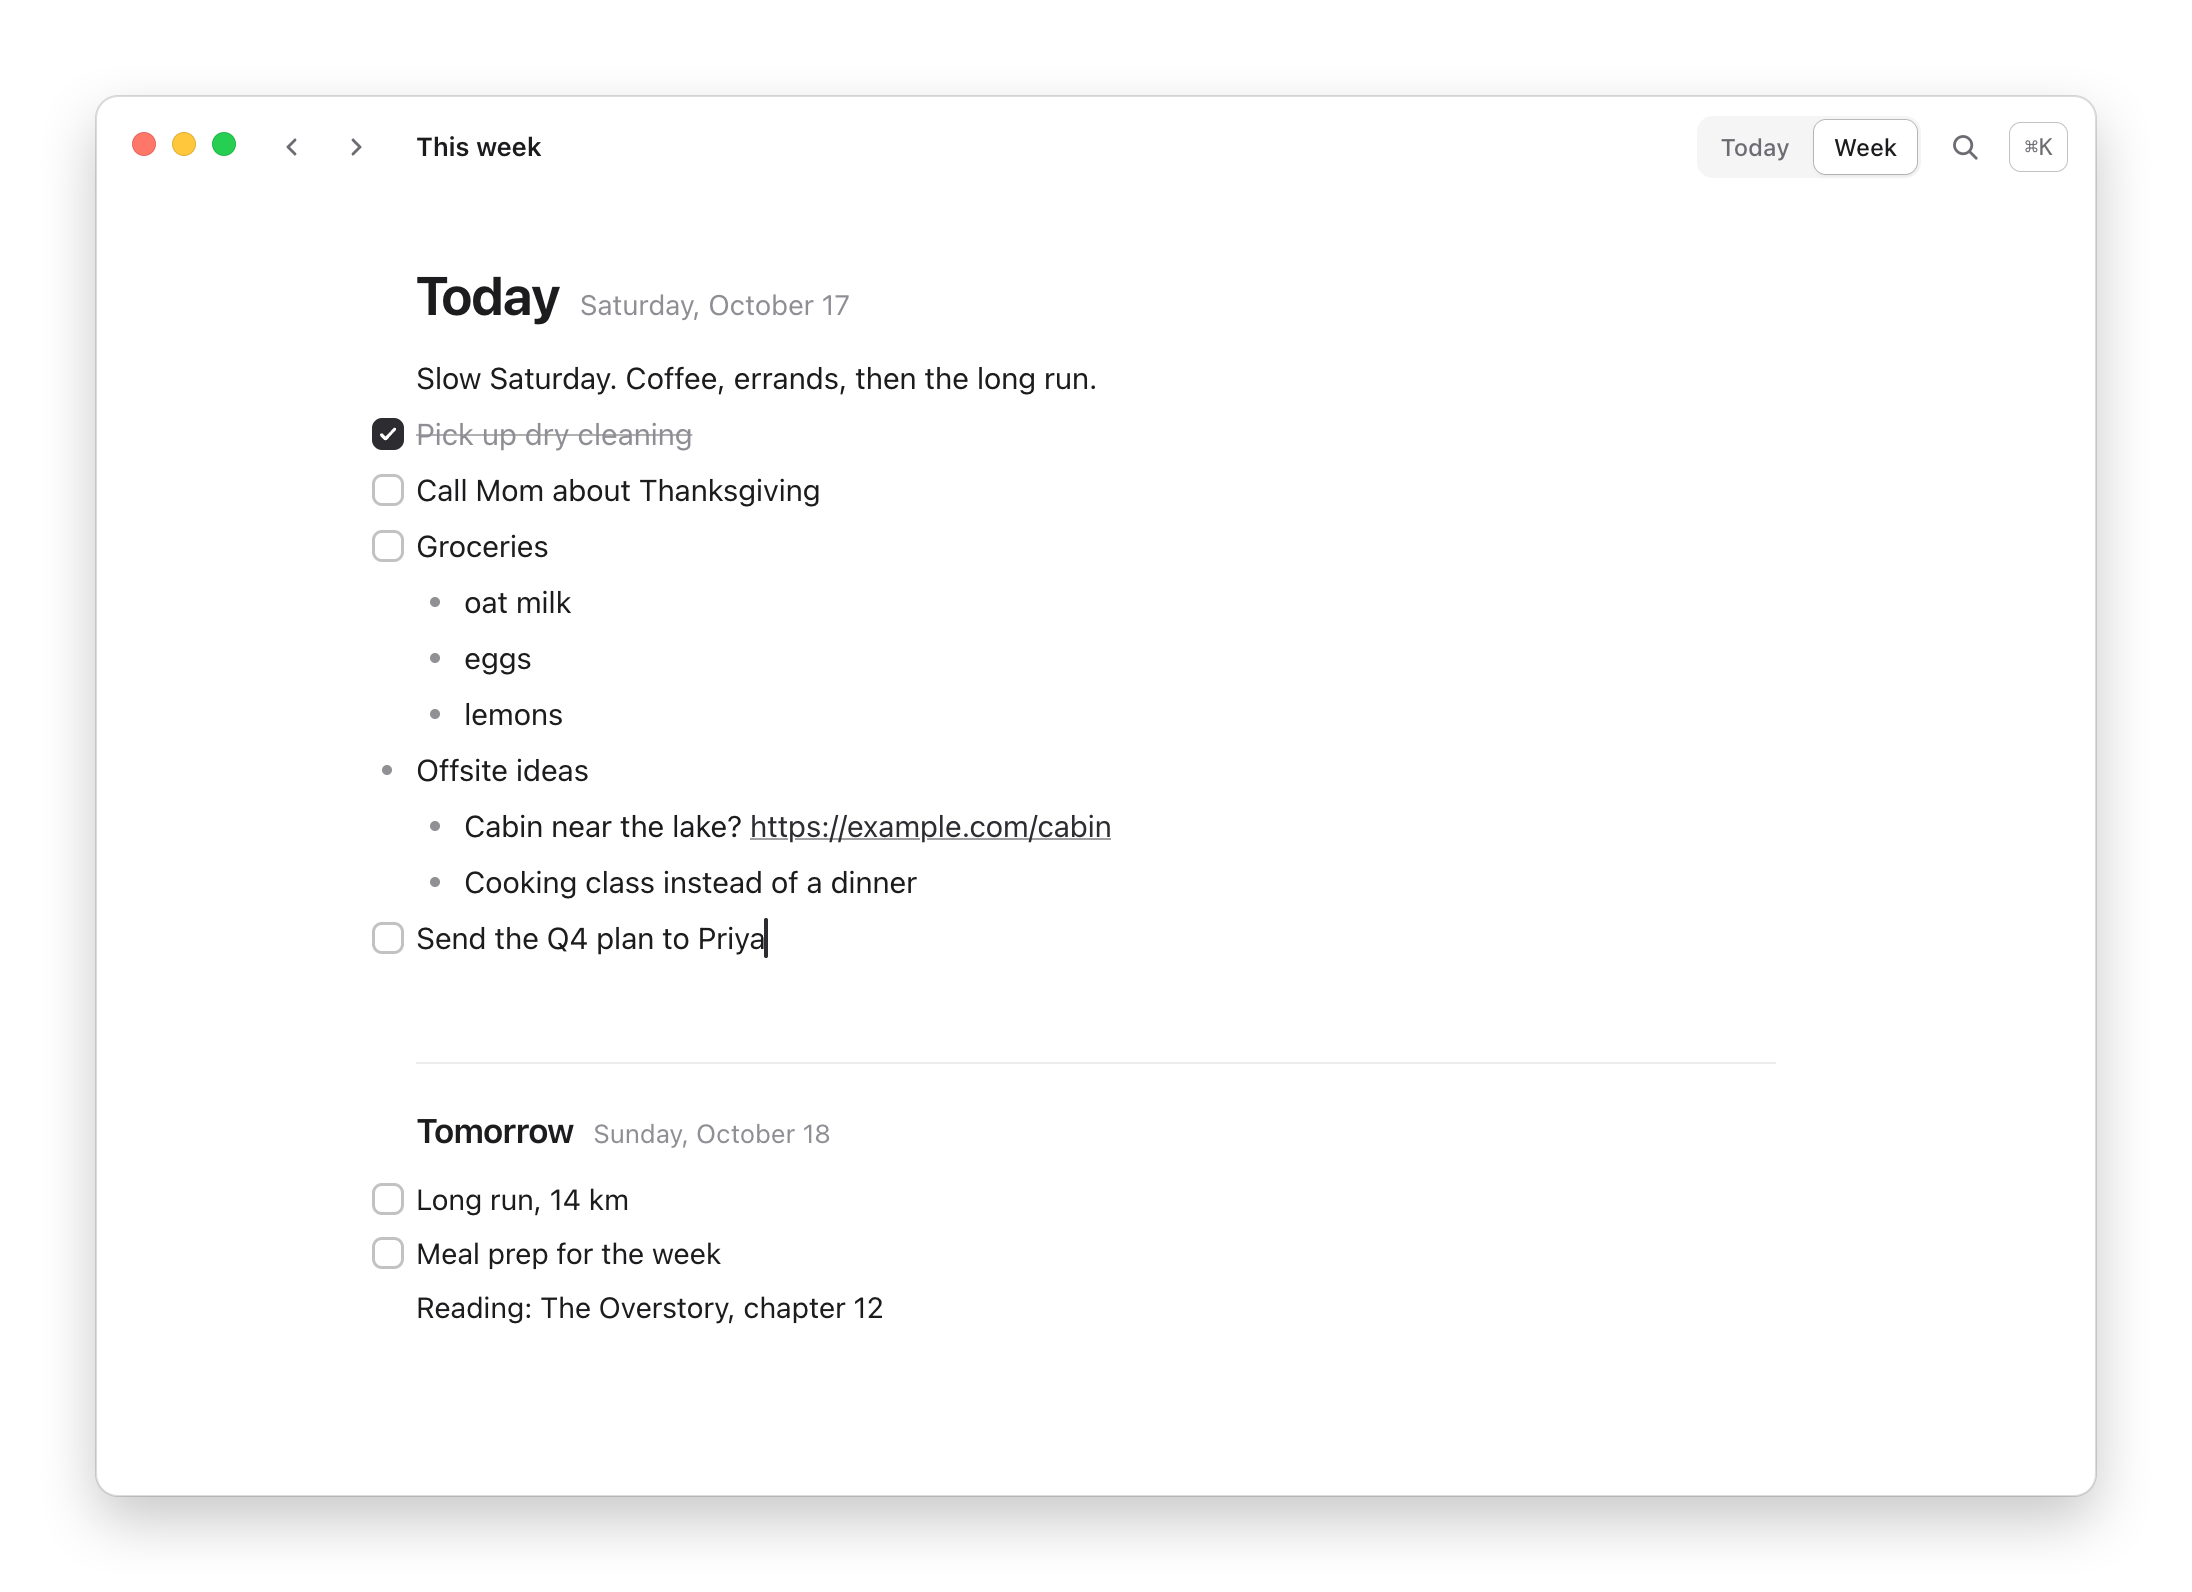
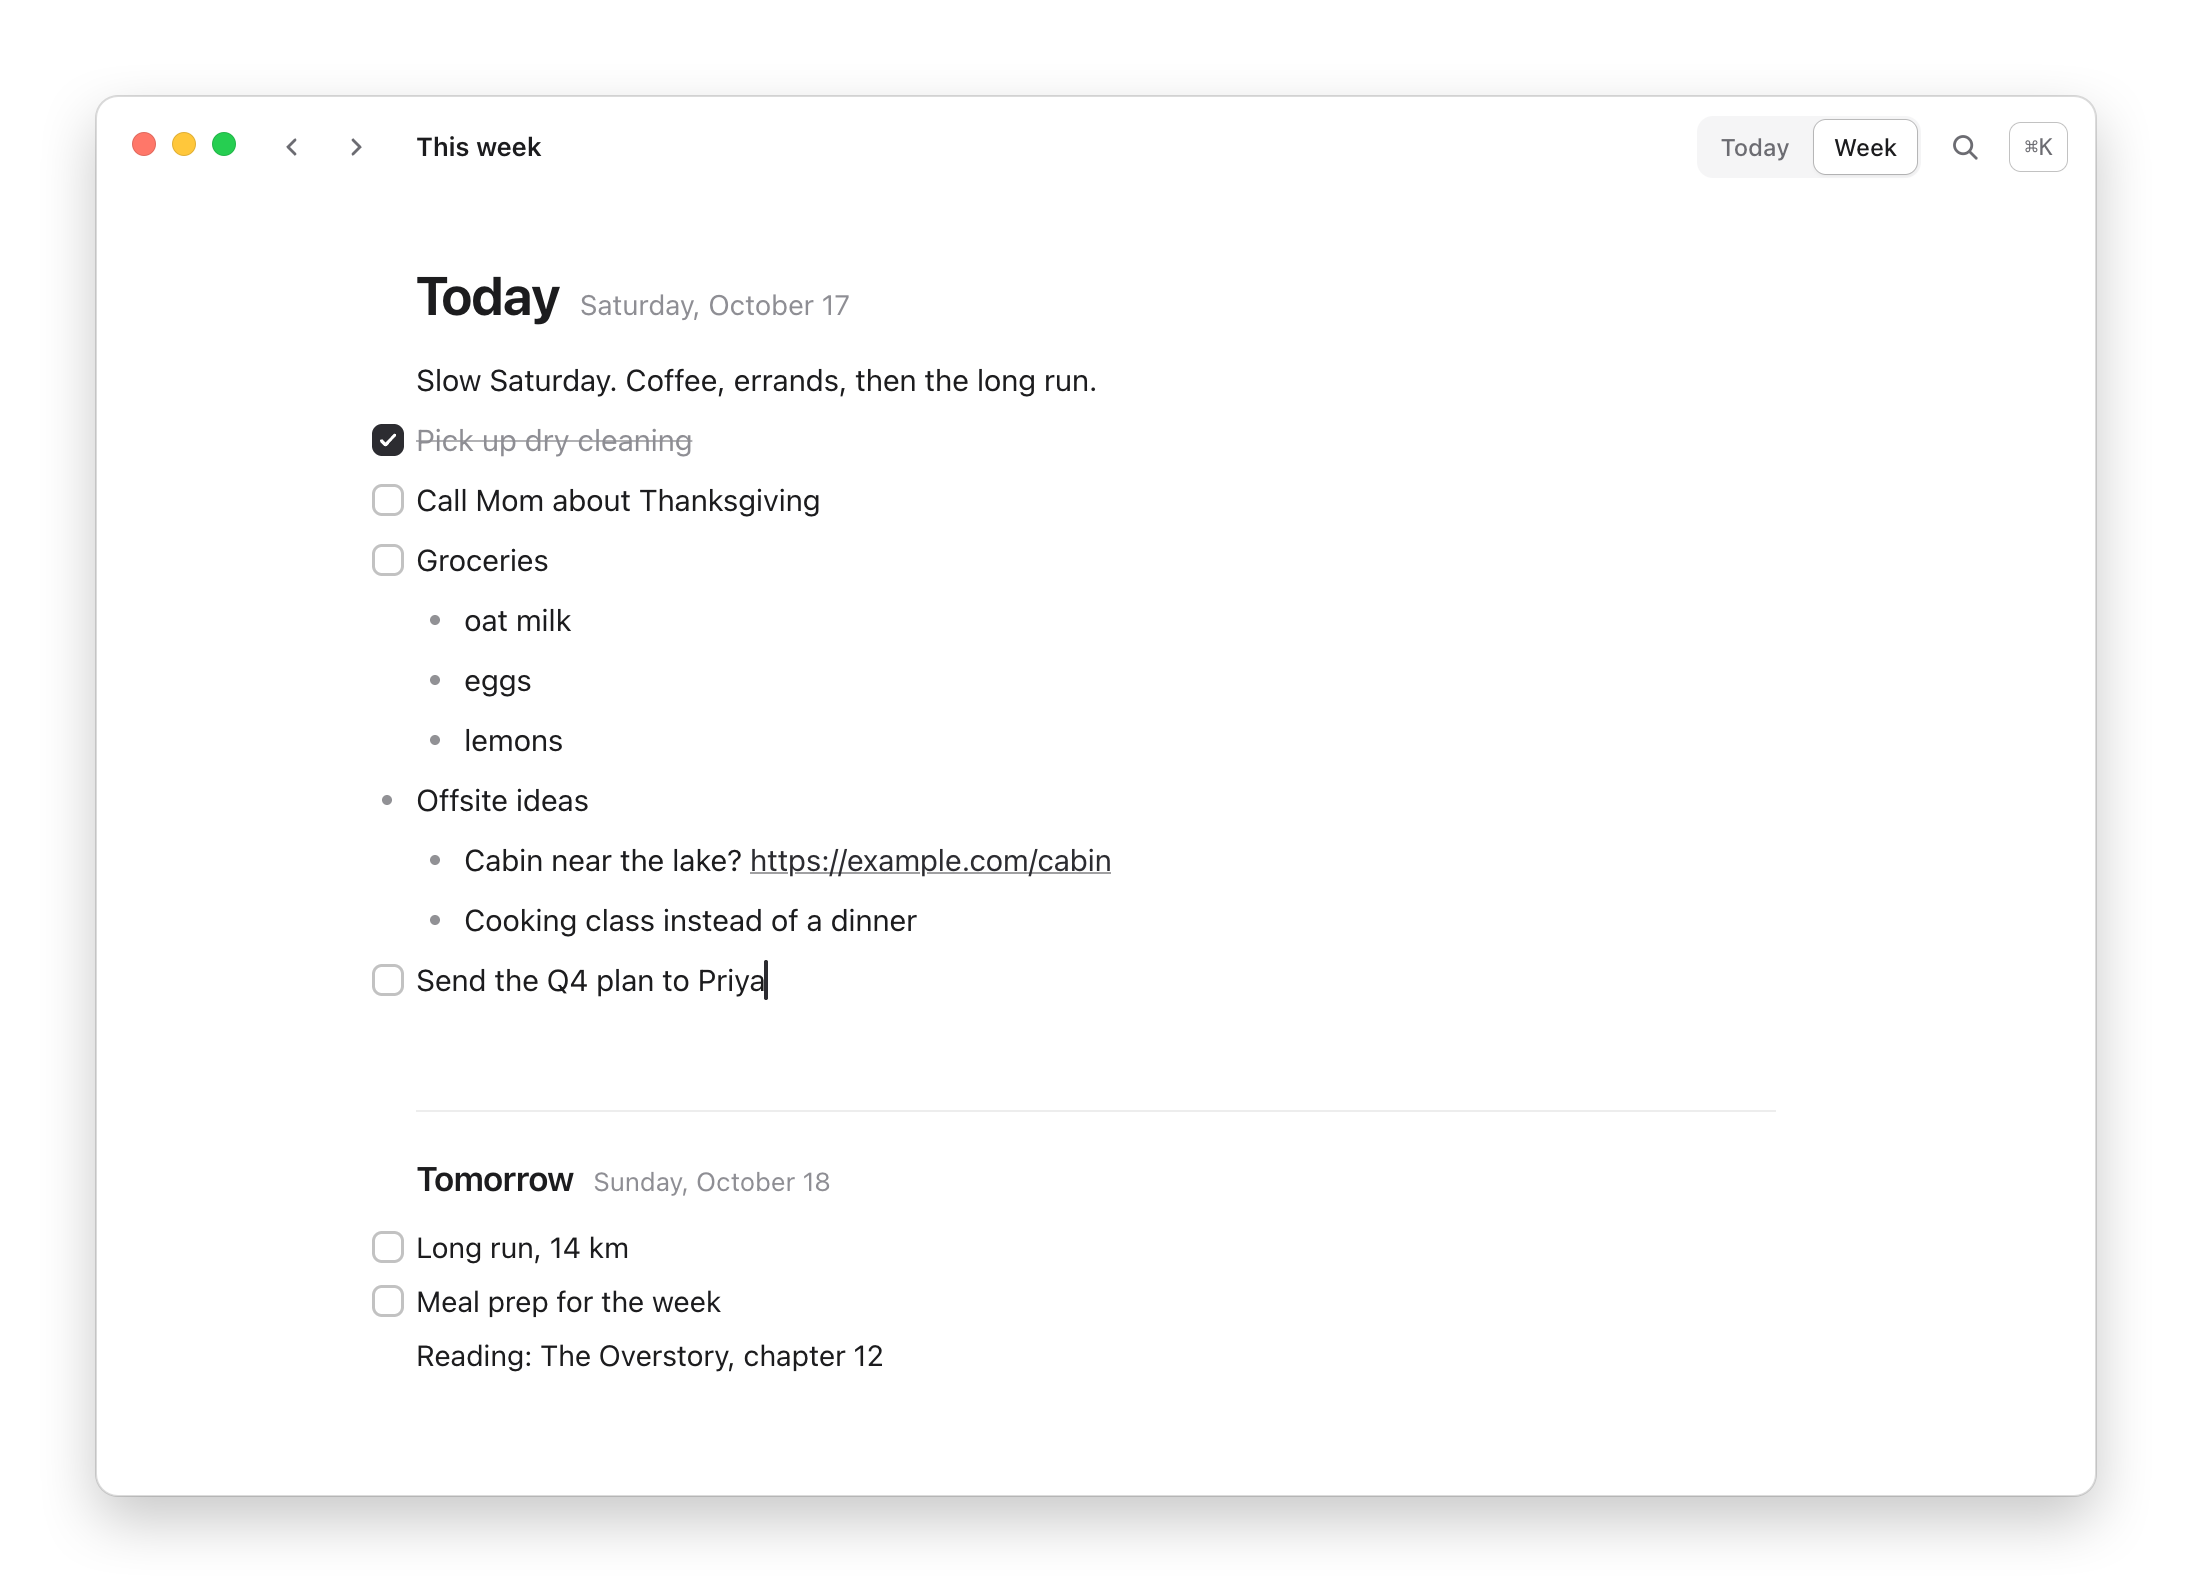
Run dev builds as "Cue Dev" and give lines more breathing room
- pnpm dev now launches a branded, ad-hoc-signed copy of Electron.app
  (Cue icon, "Cue Dev" name) so the Dock and menu bar don't say Electron
- Rows get 3px vertical padding (2px for upcoming days in the week view)
- README screenshots regenerated

Changed region(s): [[0.1551, 0.2155, 0.4964, 0.6156], [0.1551, 0.7079, 0.4033, 0.8618]]

diff --git a/src/renderer/src/styles/app.css b/src/renderer/src/styles/app.css
@@ -324,6 +324,7 @@ button:focus-visible {
 .day.is-week:not(.is-today) {
   --row-font: 14.5px;
   --row-line: 23px;
+  --row-pad: 2px;
 }
 
 /* ----------------------------------------------------------------- Rows */
@@ -335,6 +336,8 @@ button:focus-visible {
 .row {
   --row-font-size: var(--row-font, 15px);
   --row-line-height: var(--row-line, 24px);
+  /* Vertical breathing room above and below each line. */
+  --row-padding: var(--row-pad, 3px);
   position: relative;
   z-index: 0;
   display: flex;
@@ -345,7 +348,7 @@ button:focus-visible {
 .row .text {
   flex: 1;
   min-width: 0;
-  padding: 2px 8px 2px 0;
+  padding: var(--row-padding) 8px var(--row-padding) 0;
   font-size: var(--row-font-size);
   line-height: var(--row-line-height);
   white-space: pre-wrap;
@@ -361,7 +364,7 @@ button:focus-visible {
 .marker {
   flex: none;
   width: var(--marker);
-  height: calc(var(--row-line-height) + 4px);
+  height: calc(var(--row-line-height) + 2 * var(--row-padding));
   display: flex;
   align-items: center;
   justify-content: flex-start;
@@ -436,7 +439,7 @@ button:focus-visible {
 /* Drag handle hangs in the gutter, visible on hover. */
 .handle {
   position: absolute;
-  top: calc((var(--row-line-height) + 4px - 20px) / 2);
+  top: calc((var(--row-line-height) + 2 * var(--row-padding) - 20px) / 2);
   left: calc(var(--depth) * var(--indent) - 16px);
   width: 14px;
   height: 20px;

diff --git a/README.md b/README.md
@@ -164,8 +164,9 @@ pnpm dev                     # run with hot reload
 pnpm package                 # or build release/mac-arm64/Cue.app
 ```
 
-Development builds keep their data separate from the packaged app
-(`~/Library/Application Support/Cue Dev`), so working on Cue can't touch your notes.
+Development builds run as "Cue Dev" (a branded copy of Electron's bundle is created the
+first time you run `pnpm dev`). They keep their data separate from the packaged app, in
+`~/Library/Application Support/Cue Dev`, so working on Cue can't touch your notes.
 
 ## Keyboard
 
